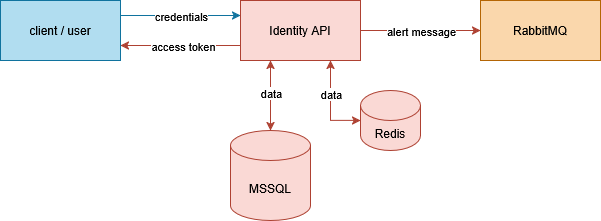
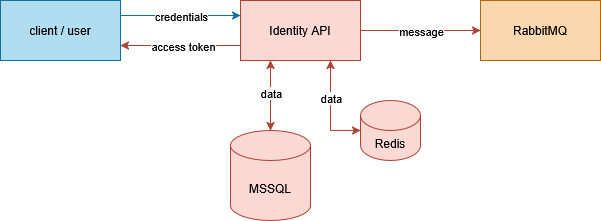
assets update

diff --git a/Business/Services/Security/Pbkdf2Key.cs b/Business/Services/Security/Pbkdf2Key.cs
@@ -1,5 +1,4 @@
-using System.Net.Sockets;
-using System.Security.Cryptography;
+using System.Security.Cryptography;
 using System.Text;
 
 namespace Business